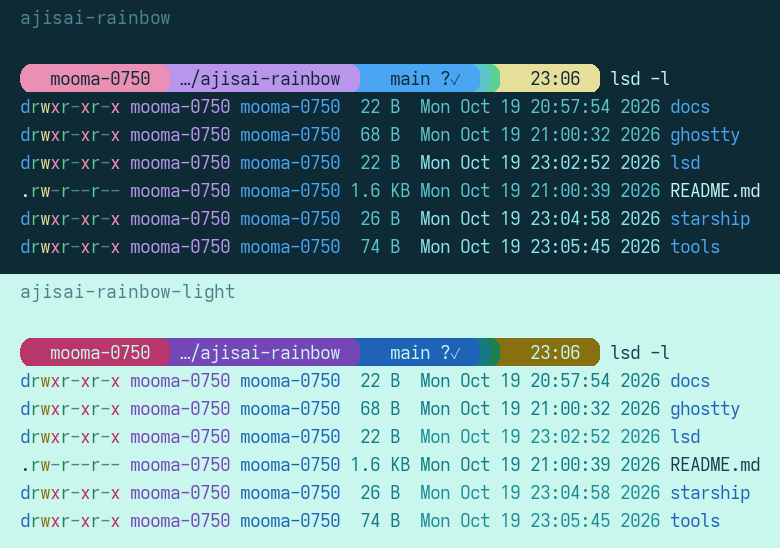
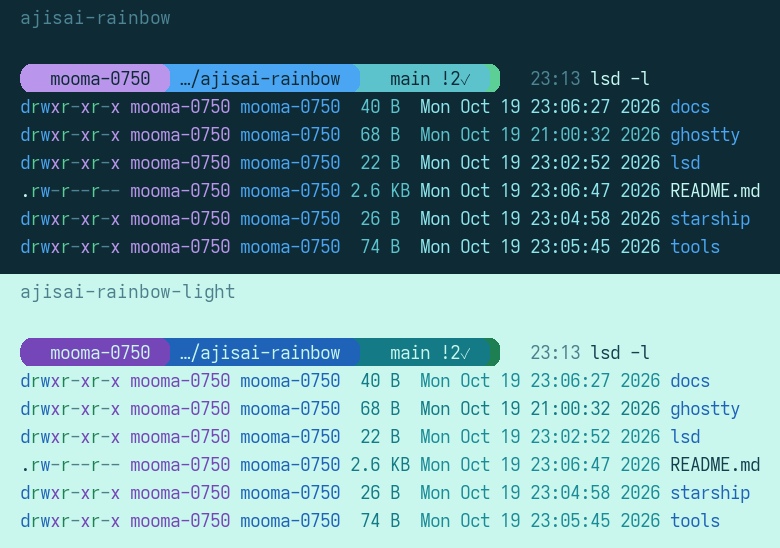
Starship と lsd の色を元の絵に寄せた
絵は寒色だけで、虹も藤色・ミント・空色の3本でピンクや黄がない。帯は紫・青・空色・緑にし、ピンクと黄はエラーや git の印だけにした。README の色の由来の説明も実際の絵に合わせた。

diff --git a/README.md b/README.md
@@ -11,7 +11,7 @@
 | `ajisai-rainbow` | `#0e2a35`（地面の深い青緑） | `#c3f9f0`（雲のミント） | 暗い版 |
 | `ajisai-rainbow-light` | `#c9f7ed`（昼の空と雲） | `#12404f`（紺） | 明るい版 |
 
-ANSI の色の割り当て: 赤は虹のピンク、緑は紫陽花の葉、黄は灯りのクリーム色、青は青い紫陽花、マゼンタは紫の紫陽花、シアンは空。
+ANSI の色の割り当て: 緑は紫陽花の葉、青は青い紫陽花、マゼンタは紫の紫陽花、シアンは空。絵はほぼ寒色だけでできていて（虹も藤色・ミント・空色の3本）、赤と黄に当たる色がない。そこで、エラーや警告を見分けられるように、赤はピンク、黄はクリーム色を足した。
 
 ## Ghostty で使う
 
@@ -37,7 +37,8 @@ ln -sf "$PWD"/starship/starship.toml ~/.config/starship.toml
 mkdir -p ~/.config/lsd && ln -sf "$PWD"/lsd/colors.yaml ~/.config/lsd/colors.yaml
 ```
 
-- Starship: 帯はピンク → 紫 → 青 → シアン → 緑 → 黄の順（紫陽花から虹へ）。帯の文字は反転（`inverted`）で端末の背景色になり、暗い版・明るい版のどちらでも対比 4.2 以上。記号に Nerd Font を使う
+- Starship: 帯は紫 → 青 → 空色 → 葉の緑の順（紫と青の紫陽花、空、葉）。絵にないピンクと黄は帯に使わず、エラー時の `❯` だけをピンクにする。帯の文字は反転（`inverted`）で端末の背景色になり、暗い版・明るい版のどちらでも対比 4.3 以上。記号に Nerd Font を使う
+- lsd も絵にある紫・青・空色・緑を中心にし、ピンクと黄は git の削除・衝突・変更の印だけに使う
 - lsd: `~/.config/lsd/config.yaml` に `color: { theme: custom }` を書くと `colors.yaml` が読まれる。ファイル名の色は `LS_COLORS` から取るので、この設定では変わらない
 
 ## 色を直したとき
